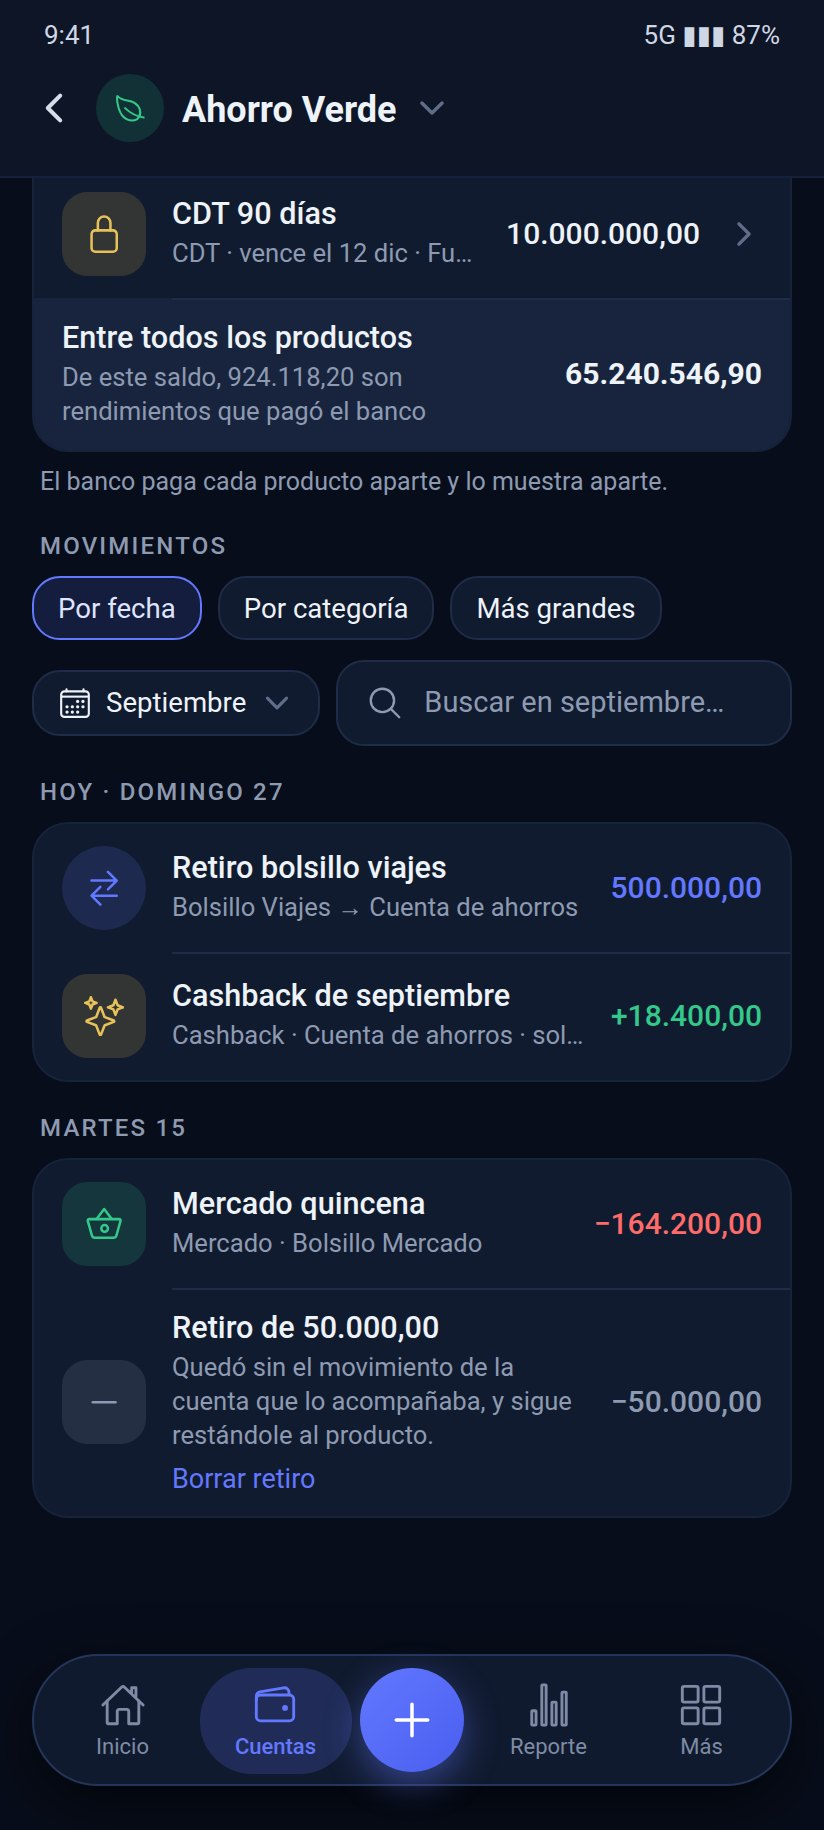
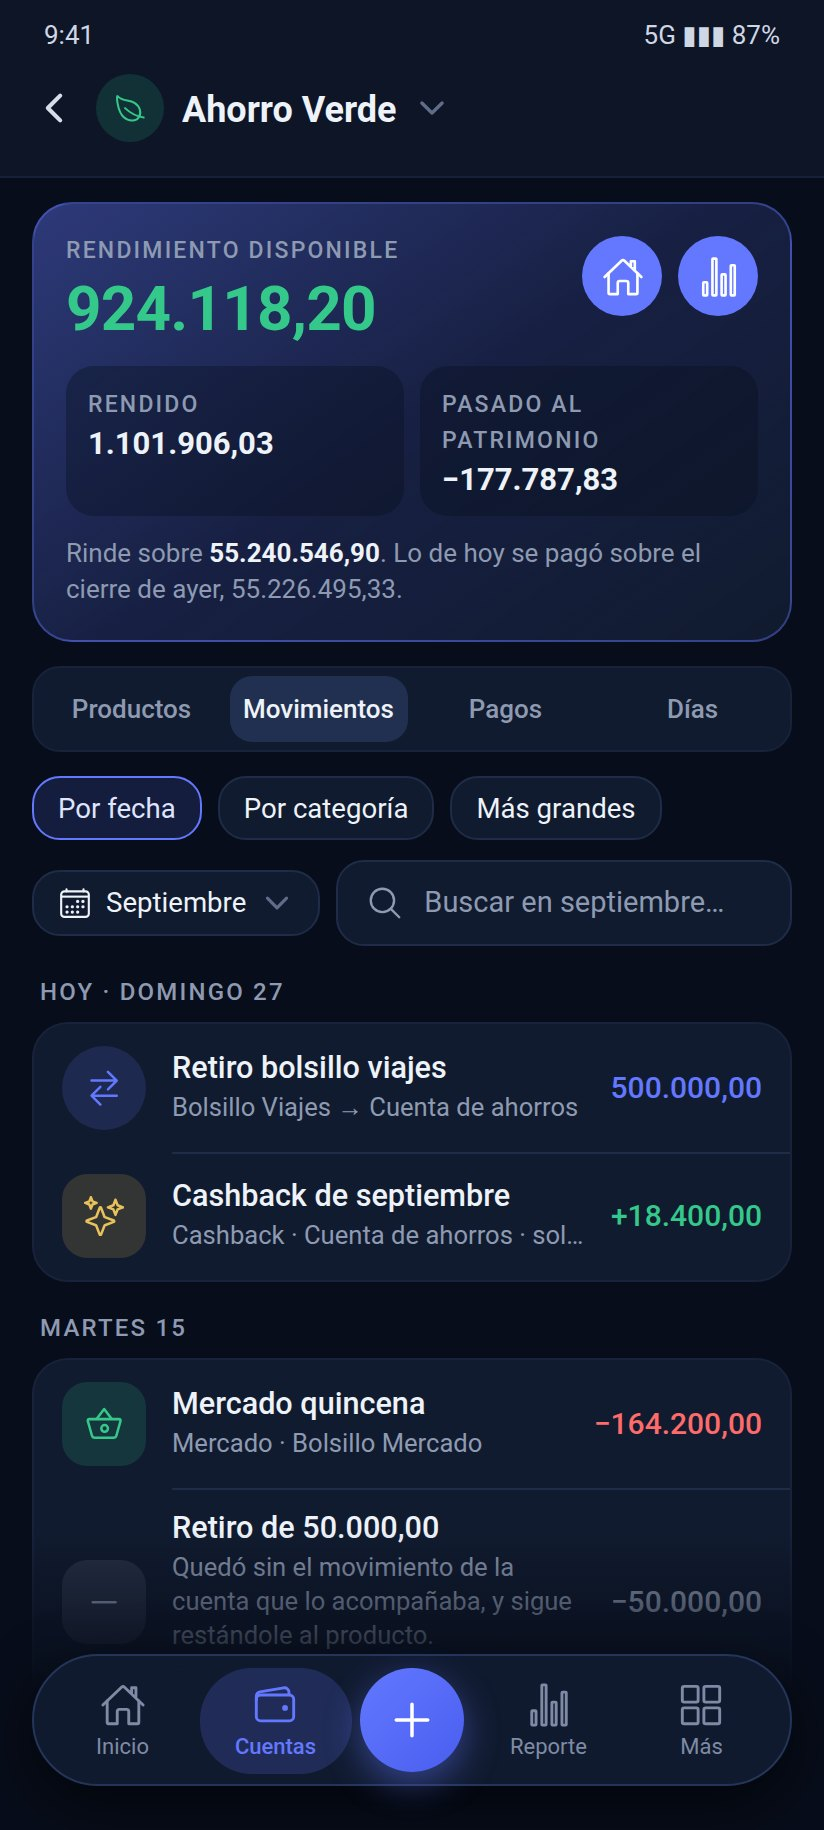
Redraw group 4 of the redesign after Jose's review (v5)
An account's page, a product and a CDT are split by a selector instead of
one long scroll; the house button returns to Inicio; a product's balance
is said as a sum; every account, product and category shows its icon;
a product's own movement keeps its note. Rules recorded in CLAUDE.md.

Claude-Session: https://claude.ai/code/session_01QyUqFix1SMdsKVBtd1Wz88

diff --git a/CLAUDE.md b/CLAUDE.md
@@ -2052,7 +2052,7 @@ then does the next start. The groups and where each stands:
 | 1 | Inicio, the "+" sheet, the movement form (every kind), its pickers, edit and delete | `docs/mockups/1*` (v5) | **Approved** by Jose, 2026-09-28 |
 | 2 | Cuentas, creating and editing an account, its icon and colour, currencies, net worth | `docs/mockups/2*` (v4) | **Approved** by Jose, 2026-09-28, with its three changes of access |
 | 3 | Categories and their editor | `docs/mockups/3*` (v4) | **Approved** by Jose, 2026-09-28 |
-| 4 | Products and yields: how they are reached, an account's products, days, movements, a product with its rates, a CDT | `docs/mockups/4*` (v4) | Sent 2026-09-28, waiting for Jose |
+| 4 | Products and yields: how they are reached, an account's products, days, movements, a product with its rates, a CDT | `docs/mockups/4*` (v5) | v4 reviewed by Jose; v5 sent 2026-09-28, waiting |
 | 5 | Report (money and yields) | `d01`-`d02` (v3 draft) | To redo |
 | 6 | Por revisar, reading a statement | `d03`-`d05` (v3 draft) | To redo |
 | 7 | Avisos del banco | `d06`-`d07` (v3 draft) | To redo |
@@ -2184,6 +2184,31 @@ does today, with these changes of ACCESS for Jose to accept or refuse:
   that without a data change; to verify before building.
 - "Recalcular" is the round arrow in the title bar of the Rendimientos
   face.
+
+**And from his review of group 4 v4 (2026-09-28), for every group:**
+
+- **Separate information with a selector, never one long scroll.** The
+  way Inicio switches Gráfico / Movimientos: an account's page is
+  Productos | Movimientos | Pagos | Días; a product's form is Producto |
+  Saldo | Tasa | Bonificación (a new one: Producto | Saldo | Tasa); a CDT
+  is CDT | Al vencer | Pagos. The face and the name stay above it.
+- **The way back to Inicio is the house**: a round button beside the
+  figure, like Inicio's own pair (edit and piggy bank), next to the one
+  for the summary.
+- **A product's balance is said as a sum**: "Tiene hoy" first, then the
+  balance read at the bank (at the close of its day), plus what came in
+  and went out since, plus what it earned since. Then the one figure the
+  person types and its day, and apart, the day it starts earning. Words
+  only - the fields and the data stay as they are.
+- **Every account, product and category shows its icon**, wherever it is
+  named or chosen: "Pasa a", "Sale de", "Pasar el saldo a", the list to
+  pick from, the payments and the days.
+- **A product's own movement keeps its note**, with everything the note
+  does today: the usual one written for that product and category, and
+  the matches under it while typing (`4x`, `4y`).
+- (The black areas in the contact sheets sent before were empty slots,
+  not screens: nothing was missed. The sheets are now as wide as what
+  they hold.)
 
 ### The ideas, by what they would take
 

diff --git a/docs/mockups/README.md b/docs/mockups/README.md
@@ -21,7 +21,7 @@ is redone, and superseded by Jose's review of 2026-09-28.
 | `1a`–`1n` | Group 1 (v5): Inicio (transfers apart, the donut with a capped legend), one account with products (its two quick buttons), one account with a long name (ellipsis and sliding), the "+" sheet, the movement form for spending, writing a note, a transfer, a move between products, two currencies, the account, product and category lists, editing and deleting |
 | `2a`–`2r` | Group 2 (v4): Cuentas (net worth, sorting, a multi-currency account, a card, one set aside), where net worth comes from, currencies and rates, typing a rate, adding a currency, a new account by hand and from a statement (reading it, and the form it fills), editing a card (top and bottom, the limit and its history), deleting, the icon, colour and own image, the archived, no accounts yet, an account whose face is its own image (`2q`) and its colour behind that image (`2r`) |
 | `3a`–`3j` | Group 3 (v4): Categorías closed and open, which list for a new one, editing (Para locked), a new one, the investment-return switch, the face's icon, colour and own image, the archived |
-| `4a`–`4q` | Group 4 (v4): Rendimientos in the Cuentas tab, adding an account, an account's page (figure and products; movements; what the bank pays and each day), one day corrected, a day set to zero, stopping an account, a product (top; its rates; one using the account's rate), a new rate, a spending bonus, a CDT, a new product and where its balance comes from, deleting a product, a product's own income with "¿Qué cambia?" |
+| `4a`–`4z` | Group 4 (v5): Rendimientos in the Cuentas tab, adding an account; an account's page with its selector (Productos, Movimientos, Pagos, Días), one day corrected or set to zero, stopping it; a product with its selector (Producto, Saldo said as a sum, Tasa, one using the account's rate, a new rate, Bonificación and a new one), deleting it and choosing where its balance goes; a CDT (CDT, Al vencer and choosing where it pays, Pagos); a new product's Saldo; a product's own income and expense with "¿Qué cambia?" and the note |
 | `d01`–`d05` | Report (money, yields), reading a statement, Por revisar (and choosing several) |
 | `d06`–`d07` | Avisos del banco, without and with permission |
 | `d08`–`d13` | Más, Importar y exportar, restoring, Google signed out and in (change account, sign out), replacing the Drive copy |
